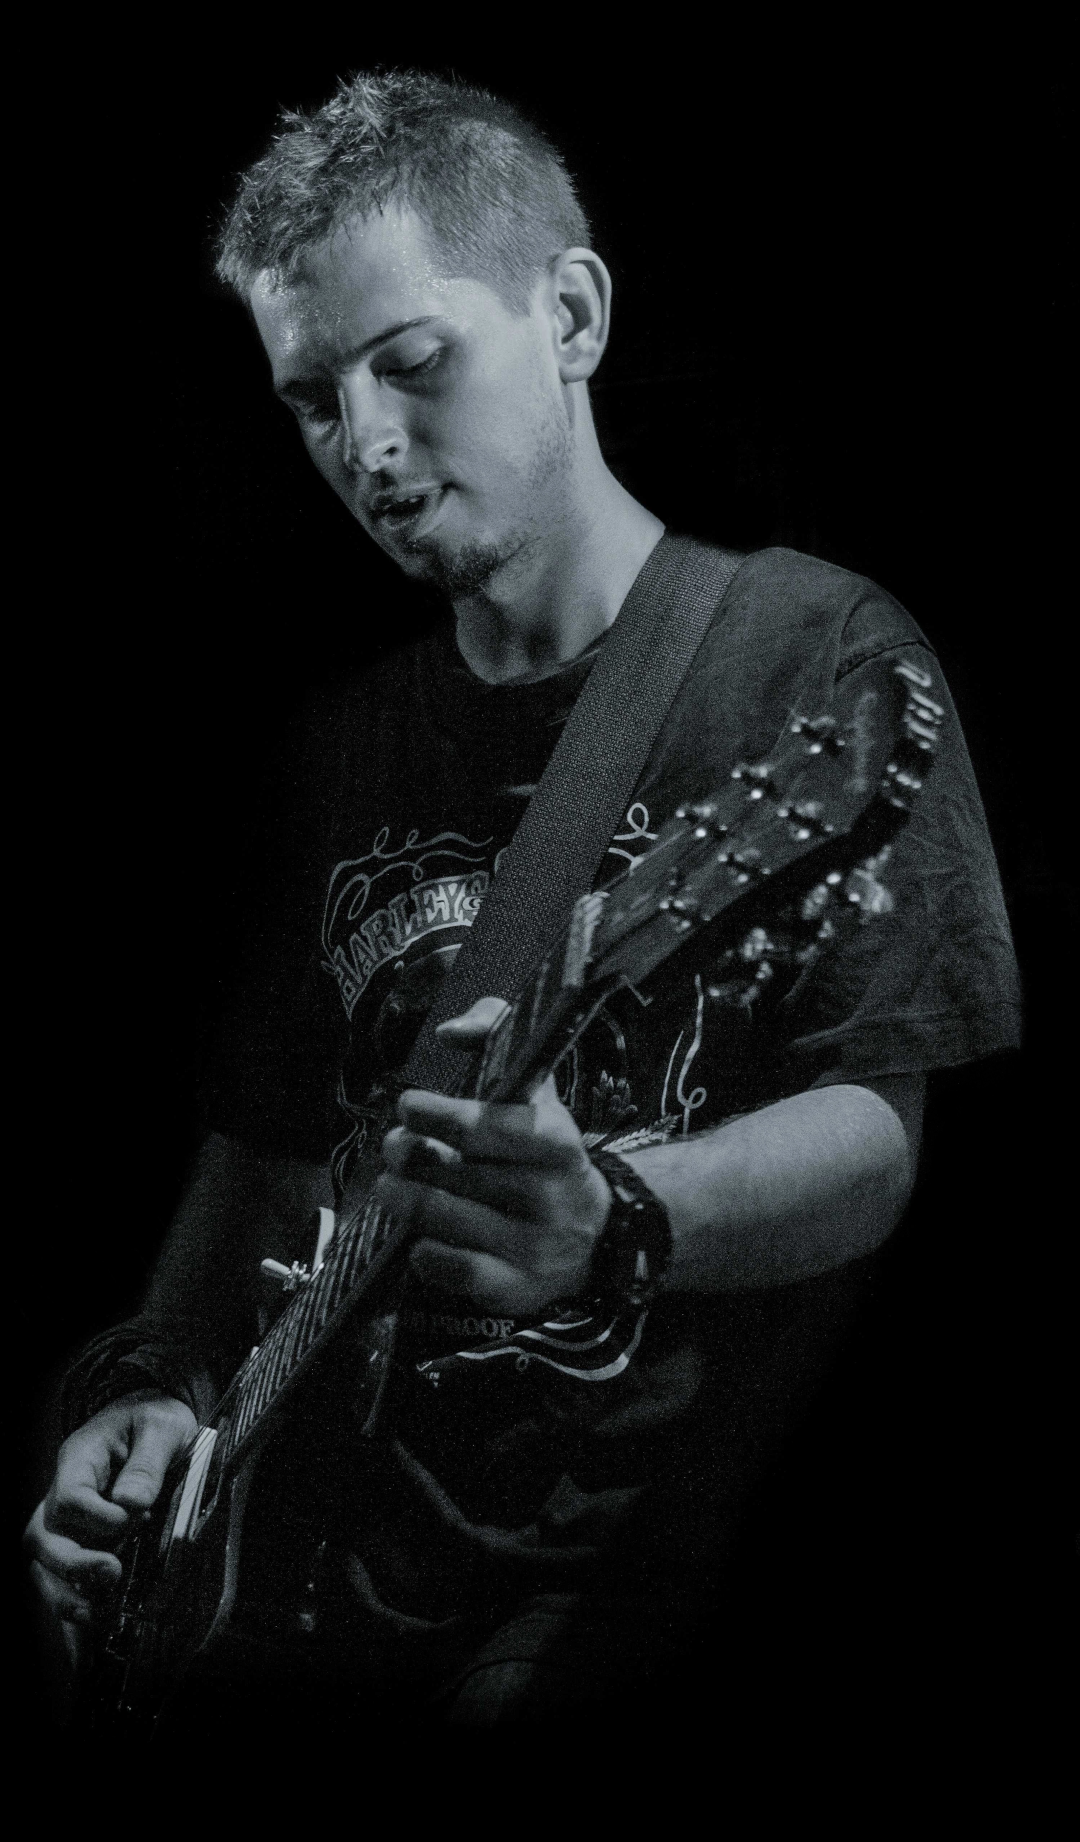
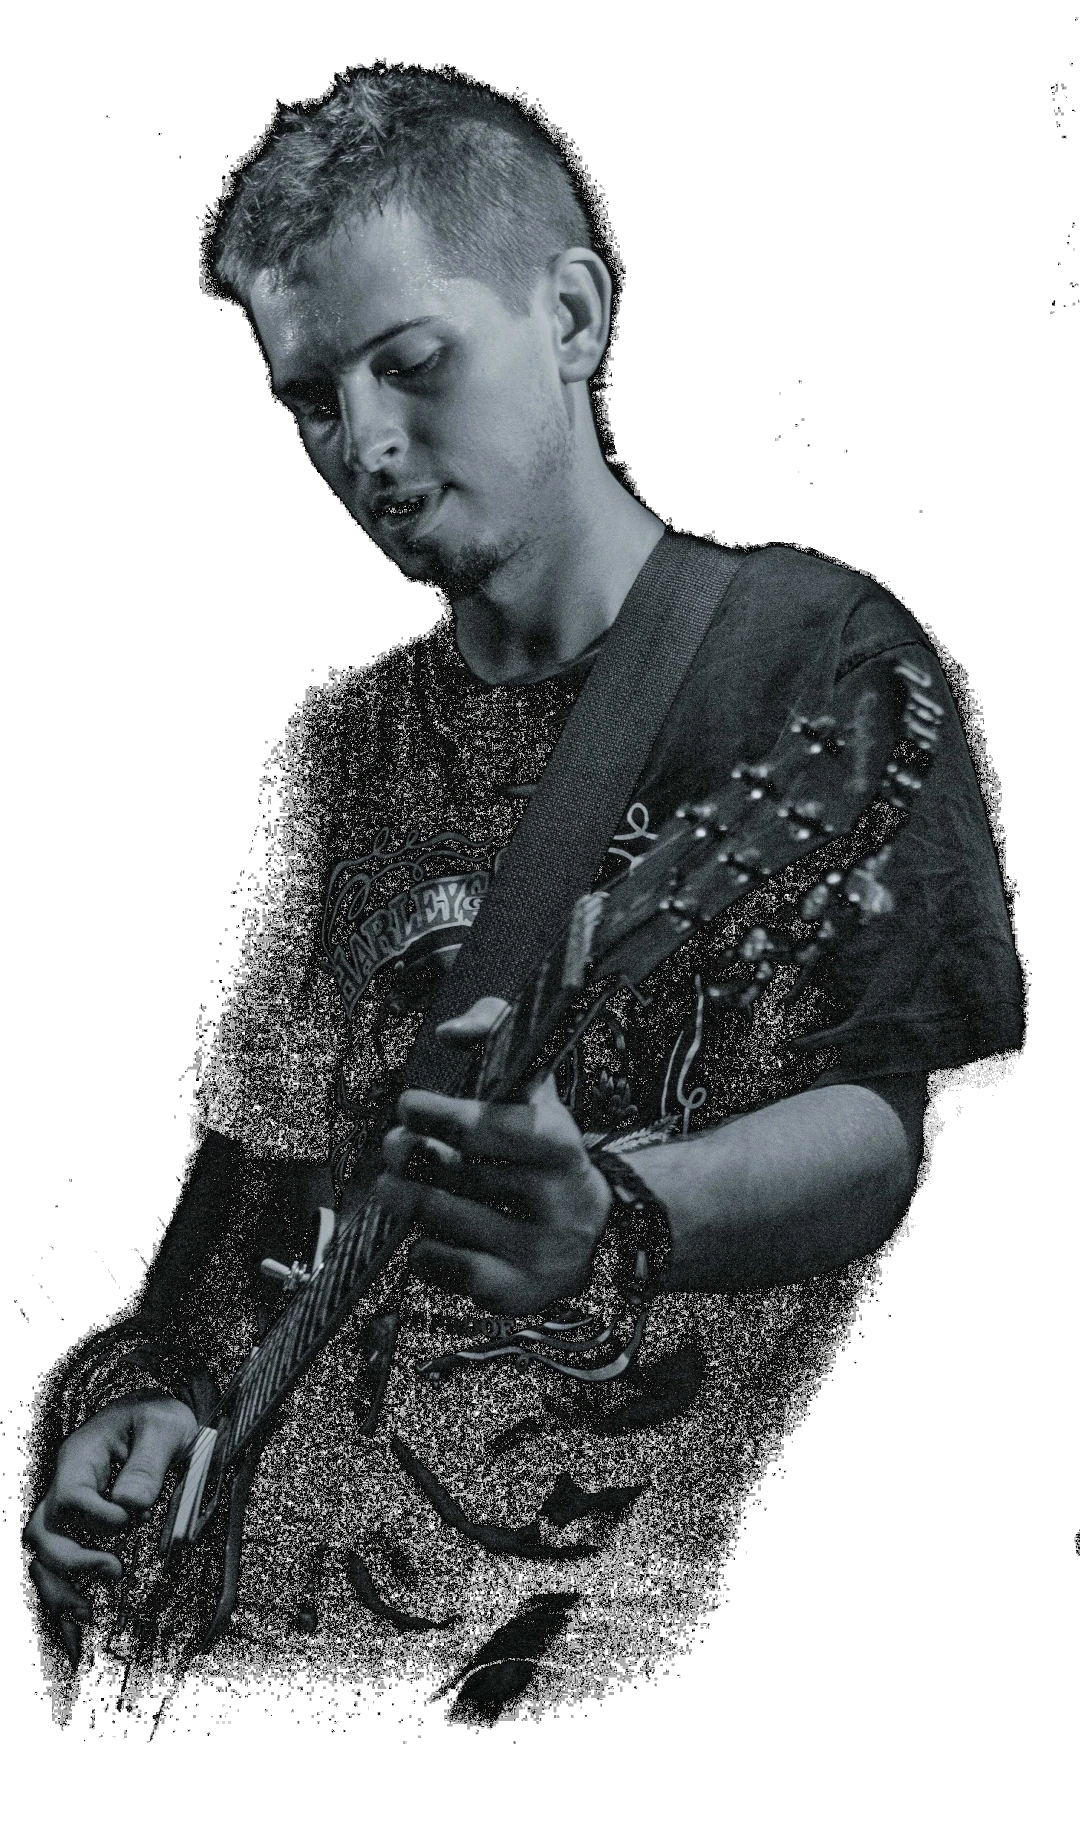
Fix some iOS specific issues.

diff --git a/index.html b/index.html
@@ -255,6 +255,10 @@
 			.hero {
 				--accent-step: 0;
 				position: relative;
+				/* Keeps .glow and .photo in one blending group: WebKit will not blend an
+				   element against a backdrop that lives in a separate composited layer, and
+				   the drifting glow blobs are promoted to their own layers on iOS. */
+				isolation: isolate;
 				min-height: 39rem;
 				display: grid;
 				align-content: start;
@@ -290,19 +294,39 @@
 					var(--bg) calc(var(--top-h) + env(safe-area-inset-top)),
 					transparent 100%);
 			}
+			/* The photo is knocked out of its black backdrop with screen blending, and
+			   bg_corner.webp is also matted so that the black is transparent in the file
+			   itself - under screen those pixels contributed nothing anyway, so this costs
+			   nothing here and leaves no black block on iOS if the blend mode is dropped.
+			   The edge fades are masks rather than multiplied-to-black layers (identical
+			   result under screen), and the filter sits on the child so that promoting the
+			   filtered layer cannot cost us the blend mode on WebKit. */
 			.photo {
 				--photo-y: 0px;
-				background-image:
-					linear-gradient(to left, transparent var(--fade-x), #000 100%),
-					linear-gradient(to top, #000 var(--fade-y0), transparent var(--fade-y1)),
-					url("resources/bg_corner.webp");
-				background-repeat: no-repeat;
-				background-position: left top, left top, right 0px top var(--photo-y);
-				background-size: 100% 100%, 100% 100%, auto 100%;
-				background-blend-mode: multiply, multiply, normal;
 				mix-blend-mode: screen;
-				filter: contrast(1.14) brightness(1.06);
+				-webkit-mask-image: linear-gradient(to top, transparent var(--fade-y0), #000 var(--fade-y1));
+				mask-image: linear-gradient(to top, transparent var(--fade-y0), #000 var(--fade-y1));
+				-webkit-mask-repeat: no-repeat;
+				mask-repeat: no-repeat;
+				-webkit-mask-size: 100% 100%;
+				mask-size: 100% 100%;
 				animation: fade-in 1.2s var(--ease) both;
+			}
+			.photo::before {
+				content: "";
+				position: absolute;
+				inset: 0;
+				background-image: url("resources/bg_corner.webp");
+				background-repeat: no-repeat;
+				background-position: right 0px top var(--photo-y);
+				background-size: auto 100%;
+				-webkit-mask-image: linear-gradient(to left, #000 var(--fade-x), transparent 100%);
+				mask-image: linear-gradient(to left, #000 var(--fade-x), transparent 100%);
+				-webkit-mask-repeat: no-repeat;
+				mask-repeat: no-repeat;
+				-webkit-mask-size: 100% 100%;
+				mask-size: 100% 100%;
+				filter: contrast(1.14) brightness(1.06);
 			}
 			@keyframes fade-in { from { opacity: 0; } to { opacity: 1; } }
 
@@ -370,9 +394,9 @@
 					--fade-y0: 25%;
 					--fade-y1: 65%;
 				}
-				.photo {
-					background-position: left top, left top, right -10vw top var(--photo-y);
-					background-size: 100% 100%, 100% 100%, auto 78%;
+				.photo::before {
+					background-position: right -10vw top var(--photo-y);
+					background-size: auto 78%;
 				}
 				.strings {
 					--hero-b: 58;
@@ -1172,15 +1196,39 @@
 				}
 
 				var audio = null, master = null, buffers = [], soundOn = false, soundChosen = false;
+				function primeSession() {
+					// iOS routes Web Audio through the ambient session, which the ringer switch mutes.
+					try {
+						if (navigator.audioSession && navigator.audioSession.type !== "playback") navigator.audioSession.type = "playback";
+					} catch (err) {}
+				}
+				function resumeAudio() {
+					if (!audio || audio.state === "running") return;
+					try {
+						var p = audio.resume();
+						if (p && p.catch) p.catch(function () {});
+					} catch (err) {}
+				}
+				// Synchronous on purpose: iOS only unlocks audio inside the gesture task itself,
+				// so nothing here may wait on the resume() promise.
 				function ensureAudio() {
-					if (audio) return audio.resume();
+					if (audio) { resumeAudio(); return true; }
 					var AC = window.AudioContext || window.webkitAudioContext;
-					if (!AC) return Promise.reject();
-					audio = new AC();
+					if (!AC) return false;
+					primeSession();
+					try { audio = new AC(); } catch (err) { return false; }
 					master = audio.createGain();
 					master.gain.value = 0.2;
 					master.connect(audio.destination);
-					return audio.resume();
+					// A one-sample source started in the gesture is what actually unlocks older iOS.
+					try {
+						var warm = audio.createBufferSource();
+						warm.buffer = audio.createBuffer(1, 1, audio.sampleRate);
+						warm.connect(audio.destination);
+						if (warm.start) warm.start(0); else if (warm.noteOn) warm.noteOn(0);
+					} catch (err) {}
+					resumeAudio();
+					return true;
 				}
 				function bufferFor(index) {
 					if (buffers[index]) return buffers[index];
@@ -1212,13 +1260,15 @@
 				}
 				function play(index, velocity) {
 					if (!soundOn || !audio) return;
+					// iOS suspends the context after an interruption or a trip to the background.
+					if (audio.state !== "running") { primeSession(); resumeAudio(); }
 					var src = audio.createBufferSource();
 					src.buffer = bufferFor(index);
 					var g = audio.createGain();
 					g.gain.value = 0.35 + 0.65 * velocity;
 					src.connect(g);
 					g.connect(master);
-					src.start();
+					if (src.start) src.start(0); else if (src.noteOn) src.noteOn(0);
 				}
 				function setSound(on) {
 					soundOn = on;
@@ -1228,7 +1278,9 @@
 				soundButton.addEventListener("click", function () {
 					soundChosen = true;
 					if (soundOn) { setSound(false); return; }
-					ensureAudio().then(function () { setSound(true); pluck(5, 0.6); }, function () {});
+					if (!ensureAudio()) return;
+					setSound(true);
+					pluck(5, 0.6);
 				});
 
 				function pluck(index, velocity) {
@@ -1273,9 +1325,7 @@
 					lastY = y;
 					lastTime = performance.now();
 					if (canvas.setPointerCapture) { try { canvas.setPointerCapture(e.pointerId); } catch (err) {} }
-					if (!soundOn && !soundChosen) {
-						ensureAudio().then(function () { setSound(true); if (index >= 0) play(index, 0.8); }, function () {});
-					}
+					if (!soundOn && !soundChosen && ensureAudio()) setSound(true);
 					if (index >= 0) pluck(index, 0.8);
 				});
 				function release() { down = false; lastY = null; }
